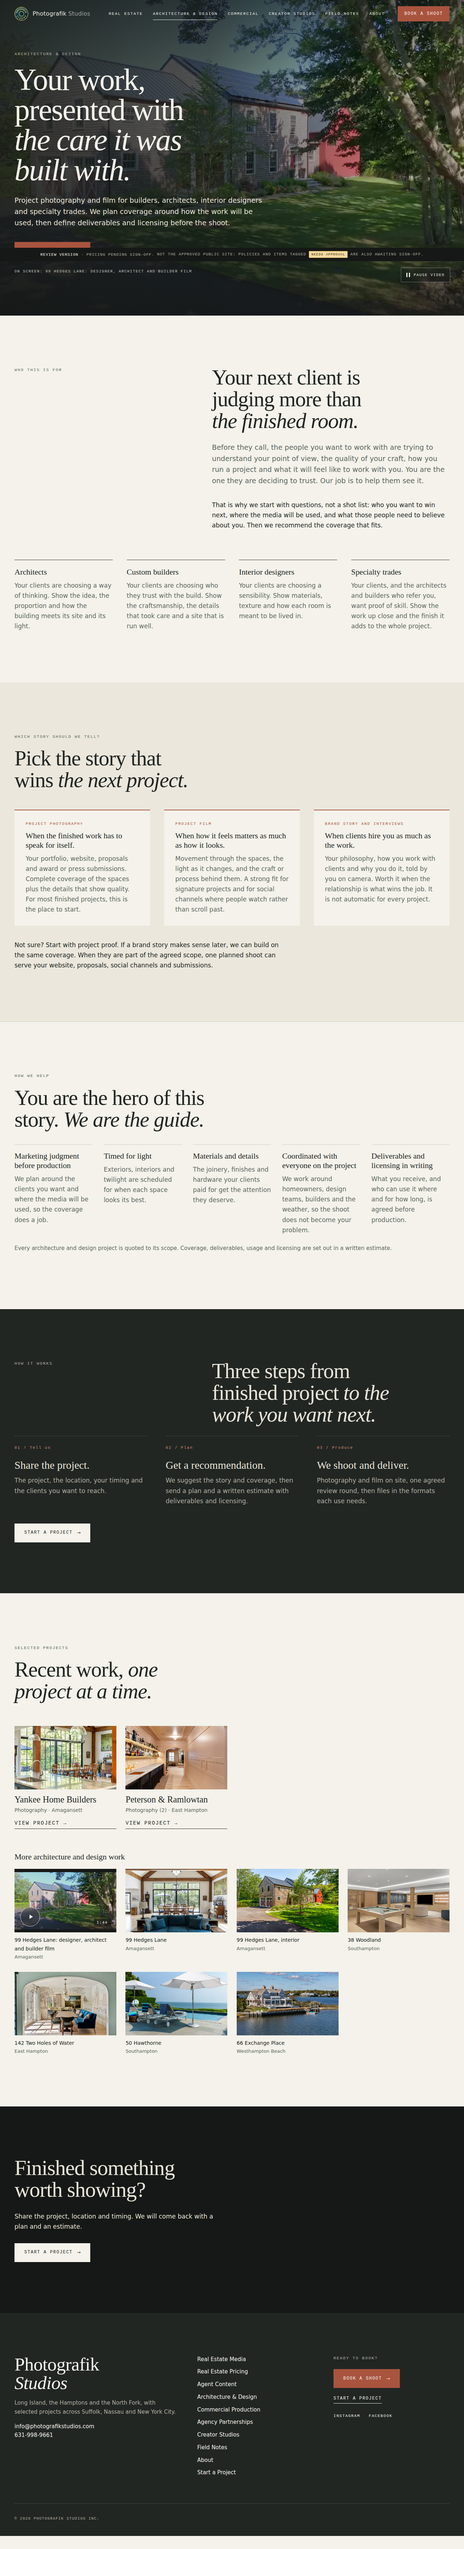
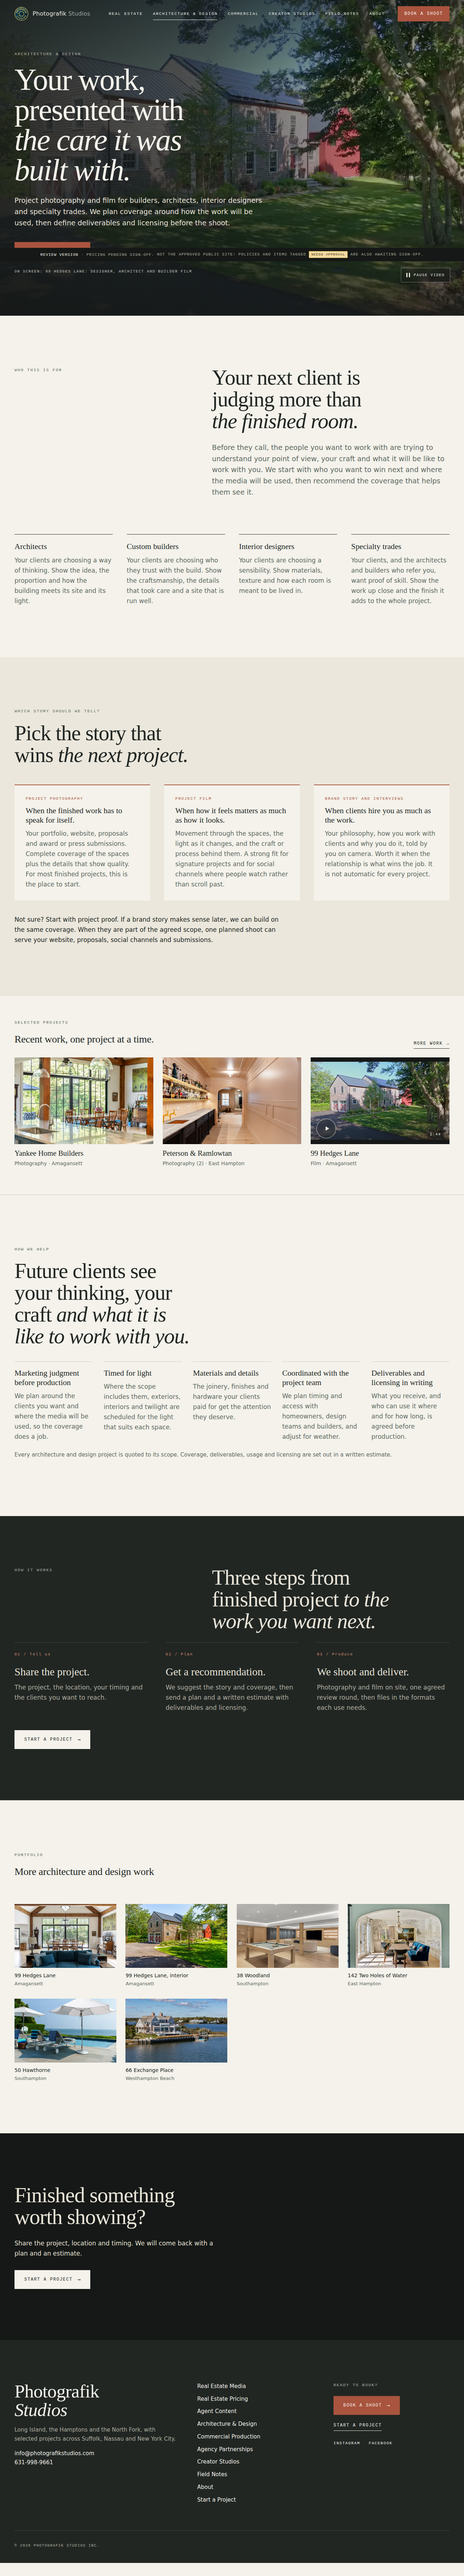
Architecture & design: early project proof, buyer-facing differentiator heading, scope-tied claims (Codex review of eb3e7e2)
- Selected projects strip (Yankee Home Builders, Peterson & Ramlowtan cards
  and the 99 Hedges Lane film, not attributed to a client) right after the
  story guide: 2,746 px at 1280, 3,563 px at 375 (was 4,394 / 6,350).
- Lower portfolio keeps the remaining approved stills as a compact grid; no
  asset or project repeats on the page.
- "You are the hero of this story. We are the guide." replaced by "Future
  clients see your thinking, your craft and what it is like to work with you."
- Light/twilight scheduling tied to the agreed scope; coordination wording
  no longer overpromises. Tighter intro and phone spacing.
- e2e 51/51 (proof position, no repeats, no StoryBrand jargon), unit 24/24,
  a11y no issues, check:media 111/111, legacy 21/21 referenced.

Claude-Session: https://claude.ai/code/session_01QdXDHTFB7SVkVxiv2k6vdC

diff --git a/src/pages.js b/src/pages.js
@@ -739,6 +739,10 @@ ${agentMonthly.length ? `<section class="section section--tint">
     .map((p) => { const items = archMedia.filter((m) => m.project === p.slug); return { p, items, rep: repOf(items), delivered: deliveredOf(items) }; })
     .filter((x) => x.items.length);
   const archMore = archMedia.filter((m) => !m.project || !archProjects.some((x) => x.p.slug === m.project));
+  // Early proof (Codex, Sep 27): the verified project cards plus the 99 Hedges film as a labelled film teaser
+  // (not attributed to a client). Everything else stays in the compact portfolio grid lower down.
+  const archTeaser = archMore.find((m) => m.id === 'arch-99-hedges-amagansett' && m.type === 'video');
+  const archProof = [...archProjects, ...(archTeaser ? [{ p: null, rep: archTeaser, label: '99 Hedges Lane' }] : [])].slice(0, 4);
   pages['/architecture-design'] = {
     overlay: true,
     body: `${pageHero({
@@ -753,8 +757,7 @@ ${agentMonthly.length ? `<section class="section section--tint">
     <div class="split__label"><p class="eyebrow">Who this is for</p></div>
     <div>
       <h2 class="h2 reveal" id="arch-intro-h">Your next client is judging more than <em>the finished room.</em></h2>
-      <p class="lede">Before they call, the people you want to work with are trying to understand your point of view, the quality of your craft, how you run a project and what it will feel like to work with you. You are the one they are deciding to trust. Our job is to help them see it.</p>
-      <p>That is why we start with questions, not a shot list: who you want to win next, where the media will be used, and what those people need to believe about you. Then we recommend the coverage that fits.</p>
+      <p class="lede">Before they call, the people you want to work with are trying to understand your point of view, your craft and what it will be like to work with you. We start with who you want to win next and where the media will be used, then recommend the coverage that helps them see it.</p>
     </div>
   </div>
   <div class="wrap">
@@ -780,16 +783,31 @@ ${agentMonthly.length ? `<section class="section section--tint">
   </div>
 </section>
 
+<section class="section section--tight" id="selected-projects" aria-labelledby="arch-proof-h">
+  <div class="wrap">
+    <div class="section-head"><div><p class="eyebrow">Selected projects</p><h2 class="h3 reveal" id="arch-proof-h">Recent work, one project at a time.</h2></div><a class="link-arrow" href="#portfolio" data-track="project_click" data-track-location="arch_proof_more">More work ${arrow}</a></div>
+    <ul class="pgrid pgrid--proof" role="list">${join(archProof, (x) => x.p ? `<li class="pgrid__item" data-project="${esc(x.p.slug)}">
+      <div class="pgrid__media">${x.rep.type === 'video' ? repFrame(x.rep, archCardSizes) : `<a href="${projectPath(x.p)}" tabindex="-1" aria-hidden="true">${repFrame(x.rep, archCardSizes)}</a>`}</div>
+      <h3 class="pgrid__title"><a href="${projectPath(x.p)}" data-track="project_click" data-track-location="arch_proof">${esc(x.p.client || x.p.title)}</a></h3>
+      <p class="pgrid__meta">${esc(x.delivered.join(' · '))}${x.p.location ? ` · ${esc(x.p.location)}` : ''}</p>
+    </li>` : `<li class="pgrid__item" data-media="${esc(x.rep.id)}">
+      <div class="pgrid__media">${repFrame(x.rep, archCardSizes)}</div>
+      <h3 class="pgrid__title">${esc(x.label)}</h3>
+      <p class="pgrid__meta">Film${x.rep.location ? ` · ${esc(x.rep.location)}` : ''}</p>
+    </li>`)}</ul>
+  </div>
+</section>
+
 <section class="section" id="why" aria-labelledby="arch-why-h">
   <div class="wrap">
     <div>
       <p class="eyebrow">How we help</p>
-      <h2 class="h2 reveal" id="arch-why-h">You are the hero of this story. <em>We are the guide.</em></h2>
+      <h2 class="h2 reveal" id="arch-why-h">Future clients see your thinking, your craft <em>and what it is like to work with you.</em></h2>
       <ul class="why-list" role="list">
         <li><h3 class="h4">Marketing judgment before production</h3><p>We plan around the clients you want and where the media will be used, so the coverage does a job.</p></li>
-        <li><h3 class="h4">Timed for light</h3><p>Exteriors, interiors and twilight are scheduled for when each space looks its best.</p></li>
+        <li><h3 class="h4">Timed for light</h3><p>Where the scope includes them, exteriors, interiors and twilight are scheduled for the light that suits each space.</p></li>
         <li><h3 class="h4">Materials and details</h3><p>The joinery, finishes and hardware your clients paid for get the attention they deserve.</p></li>
-        <li><h3 class="h4">Coordinated with everyone on the project</h3><p>We work around homeowners, design teams, builders and the weather, so the shoot does not become your problem.</p></li>
+        <li><h3 class="h4">Coordinated with the project team</h3><p>We plan timing and access with homeowners, design teams and builders, and adjust for weather.</p></li>
         <li><h3 class="h4">Deliverables and licensing in writing</h3><p>What you receive, and who can use it where and for how long, is agreed before production.</p></li>
       </ul>
       <p class="small muted">Every architecture and design project is quoted to its scope. Coverage, deliverables, usage and licensing are set out in a written estimate.</p>
@@ -812,20 +830,13 @@ ${agentMonthly.length ? `<section class="section section--tint">
   </div>
 </section>
 
-<section class="section" id="portfolio" aria-labelledby="arch-work-h">
+<section class="section" id="portfolio" aria-labelledby="arch-more-h">
   <div class="wrap">
-    <div class="section-head"><div><p class="eyebrow">Selected projects</p><h2 class="h2 reveal" id="arch-work-h">Recent work, <em>one project at a time.</em></h2></div></div>
-    <ul class="pgrid" role="list">${join(archProjects, (x) => `<li class="pgrid__item" data-project="${esc(x.p.slug)}">
-      <div class="pgrid__media">${x.rep.type === 'video' ? repFrame(x.rep, archCardSizes) : `<a href="${projectPath(x.p)}" tabindex="-1" aria-hidden="true">${repFrame(x.rep, archCardSizes)}</a>`}</div>
-      <h3 class="pgrid__title"><a href="${projectPath(x.p)}" data-track="project_click" data-track-location="arch_grid">${esc(x.p.client || x.p.title)}</a></h3>
-      <p class="pgrid__meta">${esc(x.delivered.join(' · '))}${x.p.location ? ` · ${esc(x.p.location)}` : ''}</p>
-      <a class="link-arrow pgrid__go" href="${projectPath(x.p)}" aria-label="View the ${esc(x.p.client || x.p.title)} project">View project ${arrow}</a>
-    </li>`)}</ul>
-    ${archMore.length ? `<h3 class="h4 arch-more__h" id="arch-more-h">More architecture and design work</h3>
-    <ul class="pgrid pgrid--more" role="list" aria-labelledby="arch-more-h">${join(archMore, (m) => `<li class="pgrid__item" data-media="${esc(m.id)}">
+    <div class="section-head"><div><p class="eyebrow">Portfolio</p><h2 class="h3 reveal" id="arch-more-h">More architecture and design work</h2></div></div>
+    <ul class="pgrid pgrid--more" role="list">${join(archMore.filter((m) => !archProof.some((x) => !x.p && x.rep.id === m.id)), (m) => `<li class="pgrid__item" data-media="${esc(m.id)}">
       <div class="pgrid__media">${repFrame(m, archCardSizes)}</div>
       <p class="pgrid__caption">${esc(m.title)}${m.location && !m.title.includes(m.location) ? `<span>${esc(m.location)}</span>` : ''}</p>
-    </li>`)}</ul>` : ''}
+    </li>`)}</ul>
   </div>
 </section>
 <section class="section section--brand on-dark">

diff --git a/src/assets/styles.css b/src/assets/styles.css
@@ -849,3 +849,15 @@ button.gcard__open:hover .sw-card__play { transform: scale(1.06); }
 @media (max-width: 1000px) { .audiences, .why-list { grid-template-columns: repeat(2, minmax(0, 1fr)); } .story-guide { grid-template-columns: 1fr; } }
 @media (max-width: 519px) { .why-list { grid-template-columns: 1fr; } }
 @media (max-width: 519px) { .audiences { grid-template-columns: 1fr; gap: 24px; } }
+.section--tight { padding-top: clamp(40px, 5vw, 72px); padding-bottom: clamp(40px, 5vw, 72px); }
+.pgrid--proof { grid-template-columns: repeat(3, minmax(0, 1fr)); }
+.pgrid--proof .pgrid__title { font-size: clamp(19px, 1.6vw, 24px); }
+#selected-projects .section-head { margin-bottom: 24px; }
+@media (max-width: 899px) { .pgrid--proof { grid-template-columns: repeat(2, minmax(0, 1fr)); } .pgrid--proof > :nth-child(3):last-child { grid-column: 1 / -1; } }
+@media (max-width: 700px) {
+  .arch-intro, #which-story, #why { padding-top: 56px; padding-bottom: 56px; }
+  .arch-intro .split { margin-bottom: 28px; }
+  .story-guide { gap: 16px; margin-top: 24px; }
+  .story-guide__item { padding: 20px; }
+  .audiences { gap: 20px; }
+}
